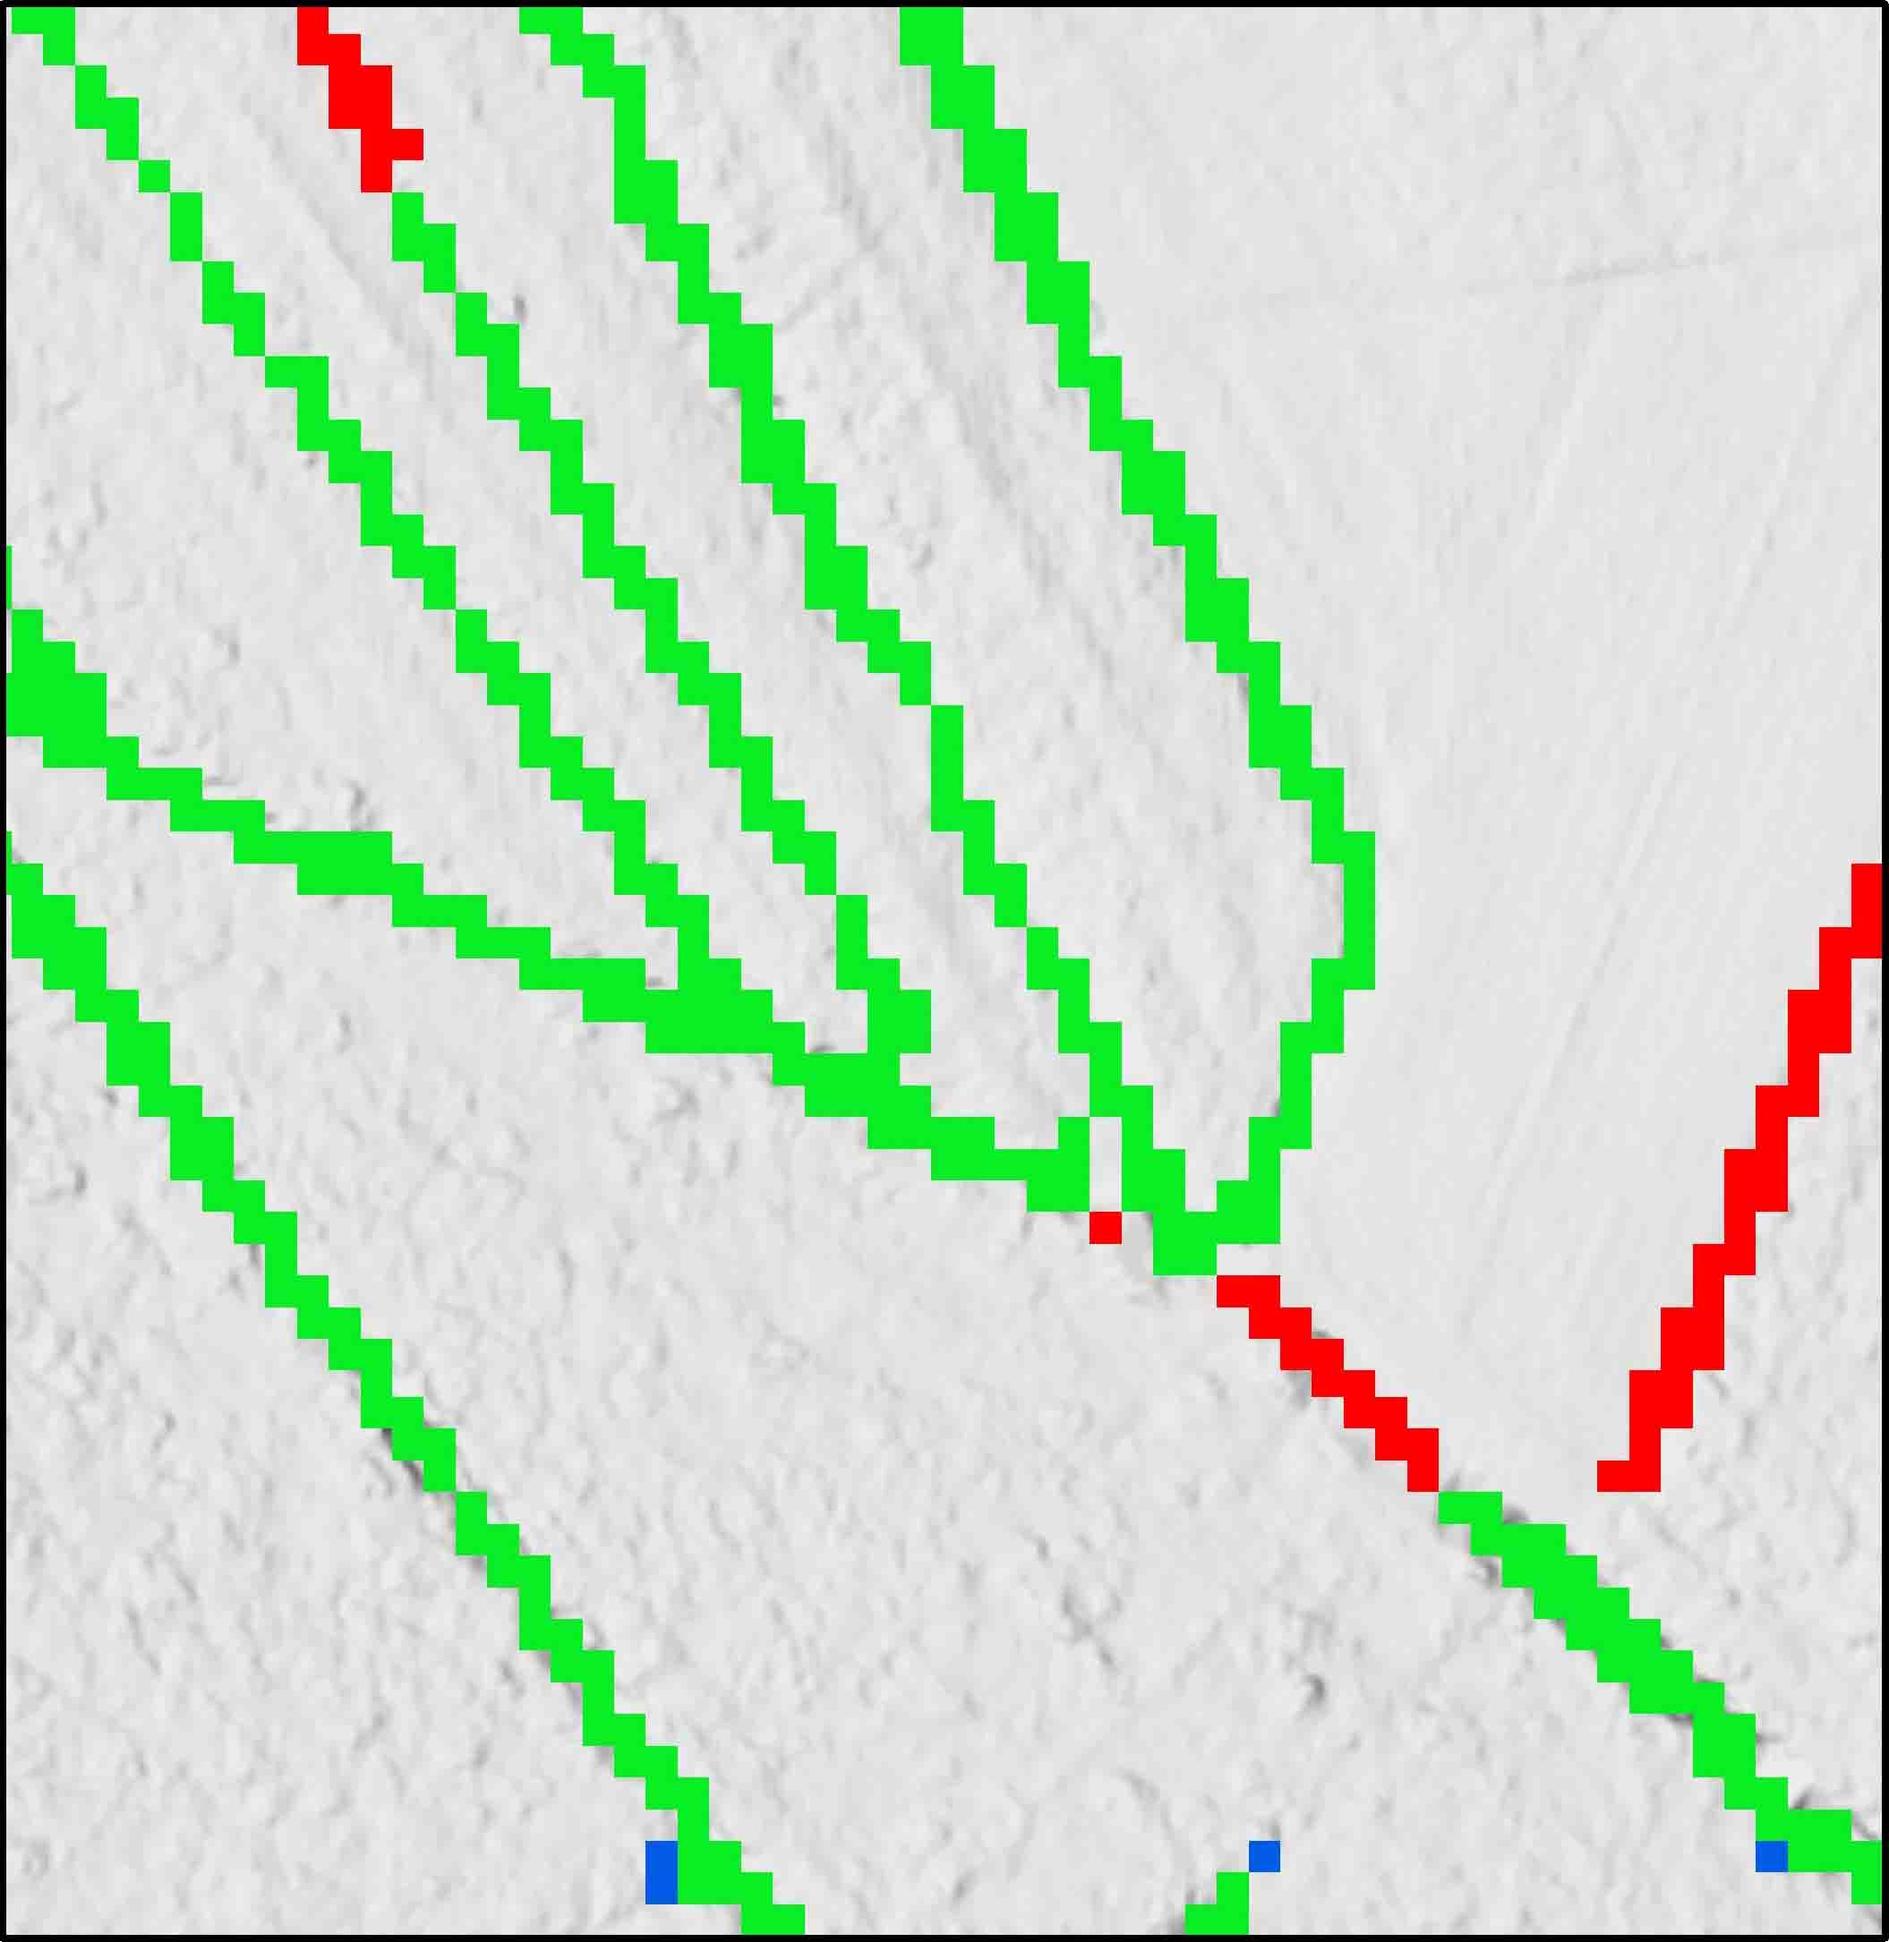
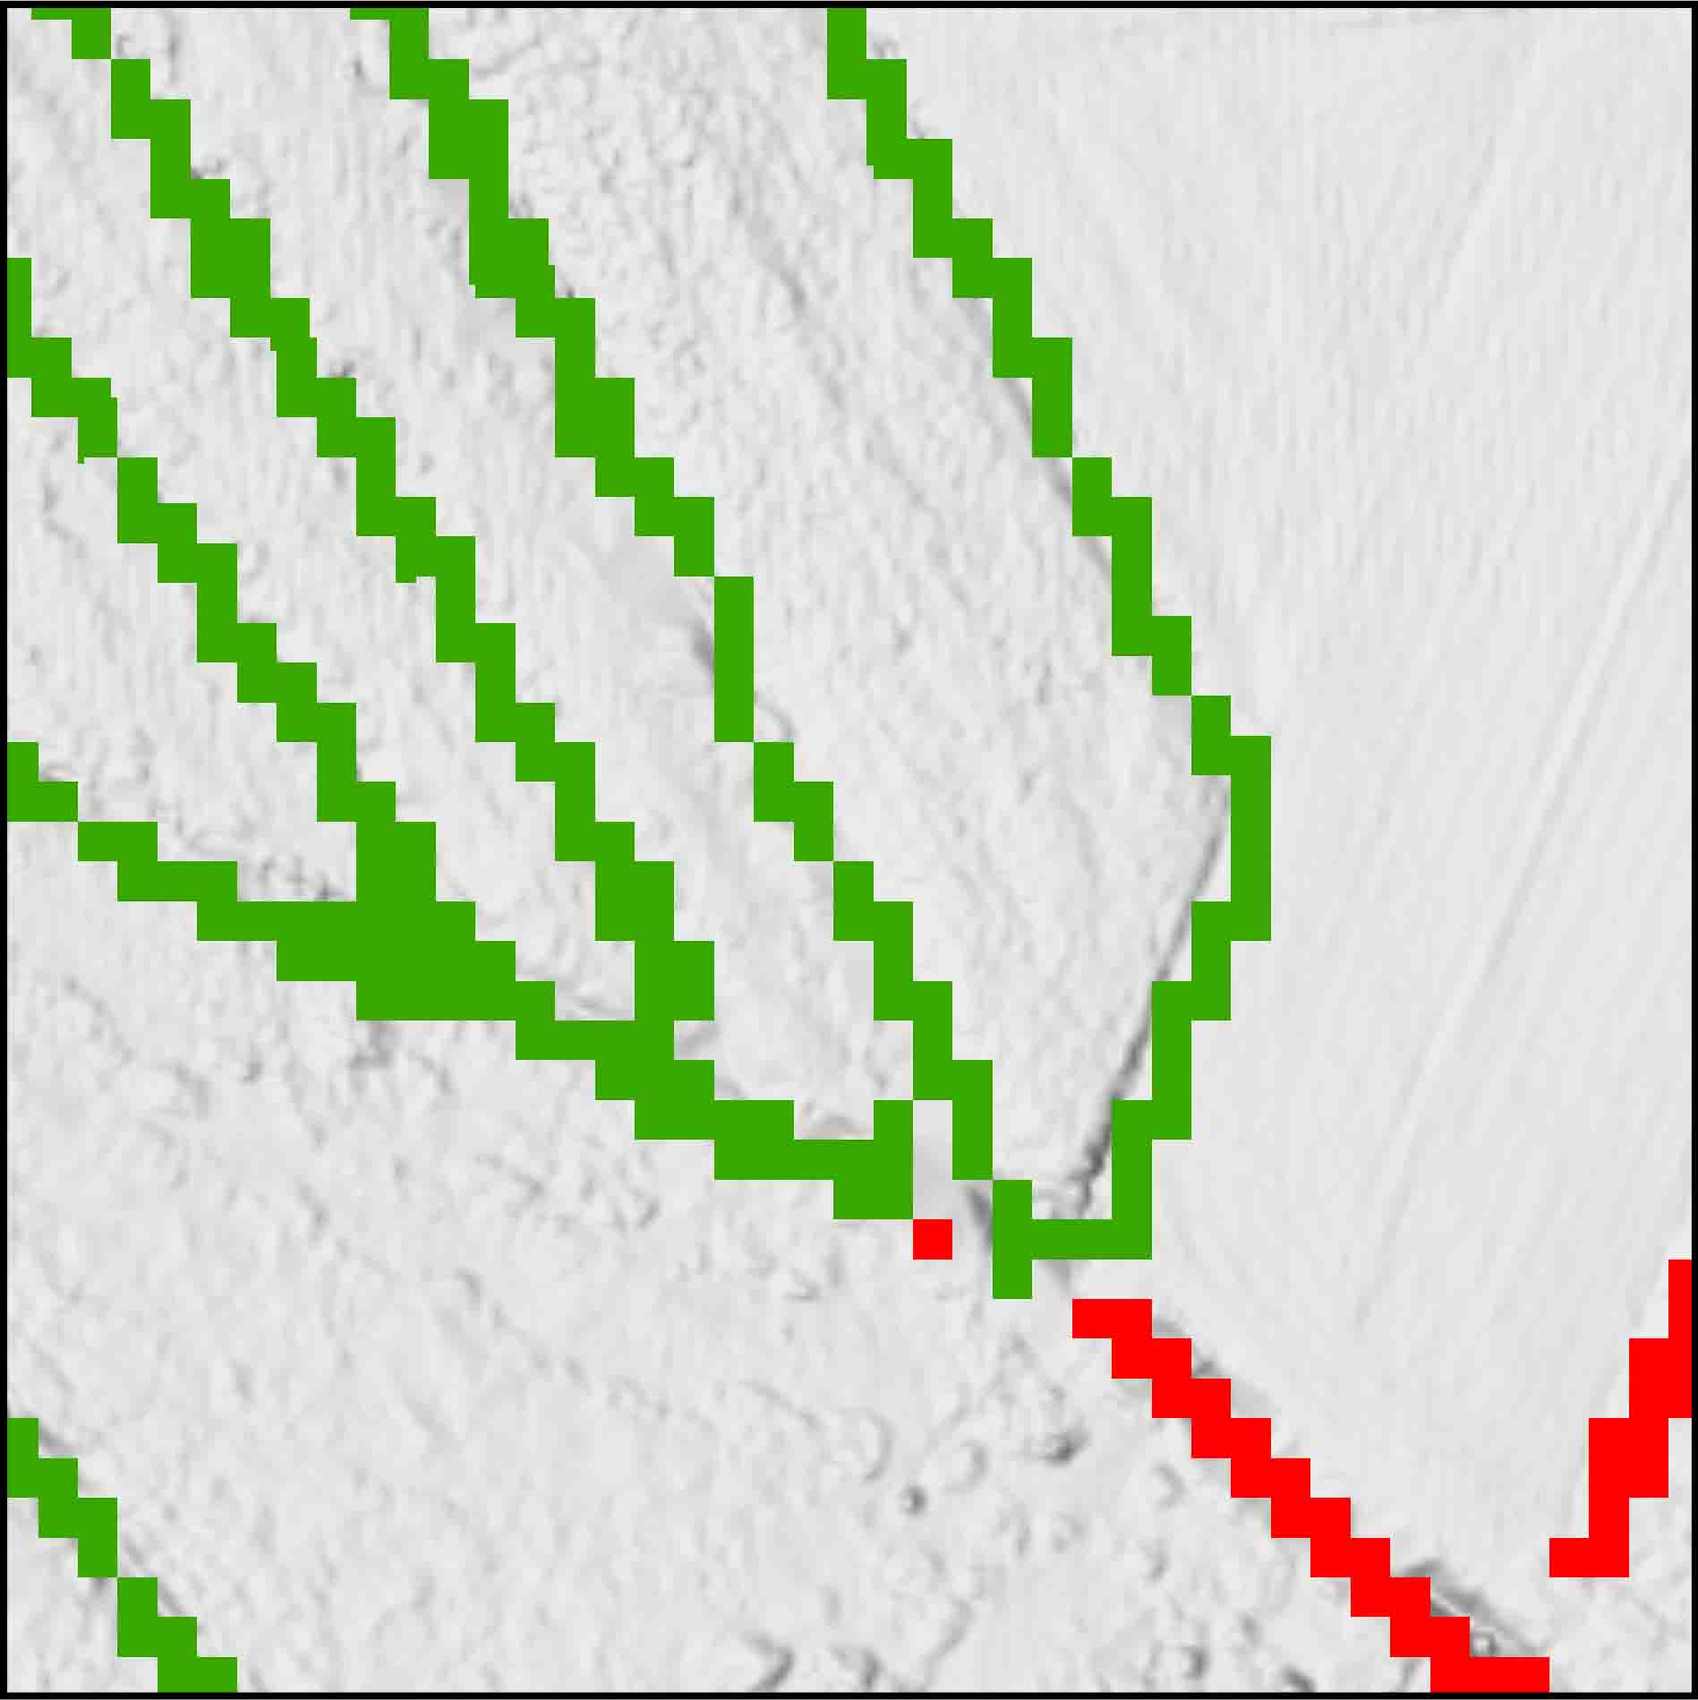
Adds new results illustration from new experiment.

diff --git a/LaTeX/Ditch detection in high-resolution digital elevation models.tex b/LaTeX/Ditch detection in high-resolution digital elevation models.tex
@@ -89,7 +89,7 @@ Machine learning; Geographic information systems; Classification and regression 
 
 Over the last century many of the wetlands in North Europe and parts of North America have been ditched. Mapping and modelling the hydrology of a flat landscape is challenging because of the low topographic gradients. In many places both the landscape and the channel network have also been heavily modified by humans, especially in agricultural landscapes, for example in mid-western United States \citep{passalacqua}. In North Europe, ditches have also been dug to turn flat peatlands into productive forests, thereby profoundly altering the hydrology in North Europe \citep{peatlands}. Sweden is one of the North European countries with the most ditches; over five million hectares of peatland have been drained for forestry in the 20th century. This has resulted in almost one million km of ditches, which has more than doubled the length of watercourses in Sweden \citep{hasselquist}.
 
-A comparison between a field inventory of ditches (within the National Inventory of Landscapes in Sweden (NILS)) and current maps, shows that approximately 90 \% of the ditch networks are missing on current maps ({\AA}gren, unpublished). To better prioritise the restoration of ditched wetlands, it is necessary to know where the ditches are located, but field inventories are often too costly. The research objective of this study is therefore to automatically detect ditches from high-resolution digital elevation models (DEMs) using digital terrain indices. Previous attempts \citep{uppsala} have shown that methods such as Sky View Factor \citep{zaksek}, Impoundment Index \citep{whiteboxtools} and High Pass Median Filter \citep{whiteboxtools} can be used to detect the ditches. Different false positives and negatives can be observed when examining each terrain index manually. Sky View Factor tends to give a large amount of false positives in steep terrain, whereas Impoundment Index and High Pass Median Filter are more difficult to analyse. Due to the difference in false positives and negatives, we want to combine the indices to help prune the weaknesses and amplify the strengths of each index. This is in part due to the Light Detection and Ranging (LiDAR) measurements sometimes being interfered by trees, bushes, or grass - leaving gaps in the ditch model, or sometimes due to a poorly set threshold. Therefore, using solely the digital terrain indices for ditch mapping tends to yield an imprecise result.
+A comparison between a field inventory of ditches (within the National Inventory of Landscapes in Sweden (NILS)) and current maps, shows that approximately 90 \% of the ditch networks are missing on current maps ({\AA}gren, unpublished). To better prioritise the restoration of ditched wetlands, it is necessary to know where the ditches are located, but field inventories are often too costly. The research objective of this study is therefore to automatically detect ditches from high-resolution digital elevation models (DEMs) using digital terrain indices. Previous attempts \citep{uppsala} have shown that methods such as Sky View Factor \citep{zaksek}, Impoundment Index \citep{whiteboxtools} and High Pass Median Filter \citep{whiteboxtools} can be used to detect the ditches. Different false positives and negatives can be observed when examining each terrain index manually. Sky View Factor tends to give a large amount of false positives in steep terrain, whereas Impoundment Index and High Pass Median Filter are more difficult to analyse. Due to the difference in false positives and negatives, we want to combine the indices to help prune the weaknesses and amplify the strengths of each index. This is in part due to the Light Detection and Ranging (LiDAR) measurements sometimes being interfered by trees, bushes, or grass - leaving gaps in the ditch model, or sometimes due to a poorly set threshold. Therefore, using solely the digital terrain indices for ditch mapping tends to yield imprecise result.
 
 In this study, we introduce new methods for the automated mapping of ditches. From the high resolution DEM, we use machine learning to locate the ditch networks. We also examine which digital terrain indices are the most relevant for a correct ditch prediction. To accomplish this, we conduct experiments using a supervised learning algorithm with labelled ditch data to automatically extract ditches from externally supplied occurrences (data not before seen by the model) \citep{kotsiantis}. These occurrences are used as input variables to the algorithm, and these input variables consist of refined or raw digital terrain indices derived from a DEM.
 
